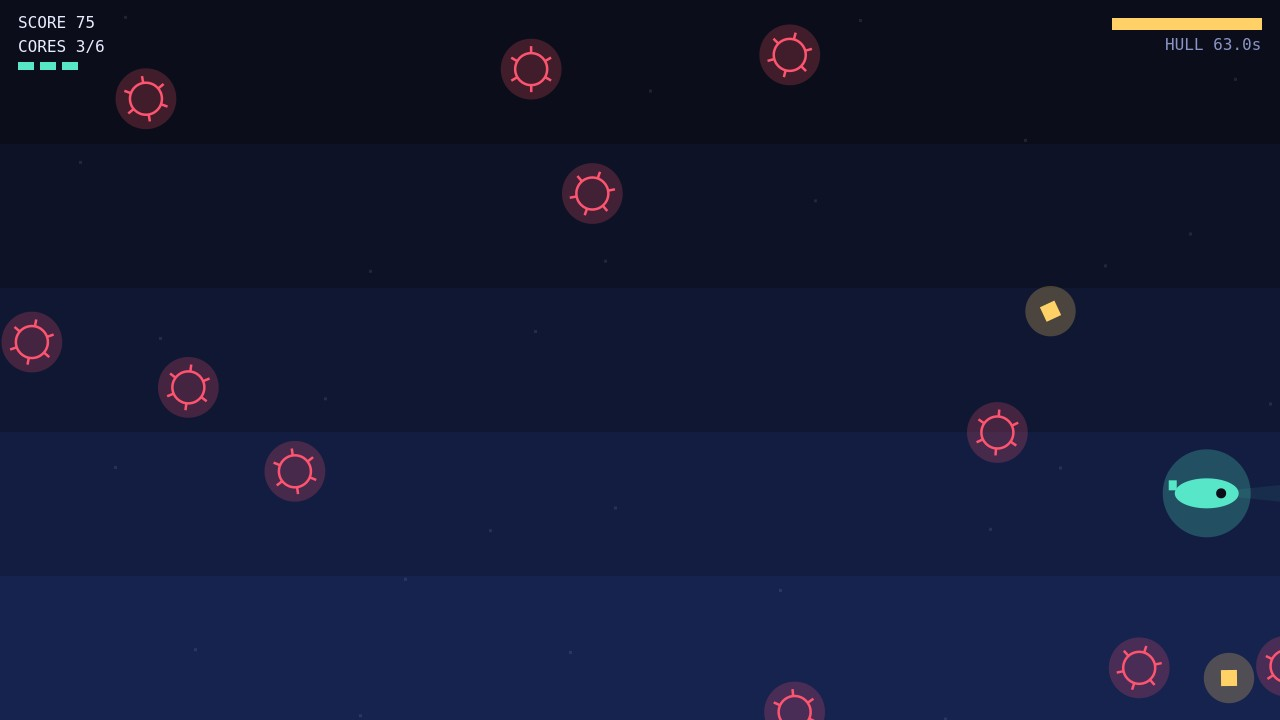
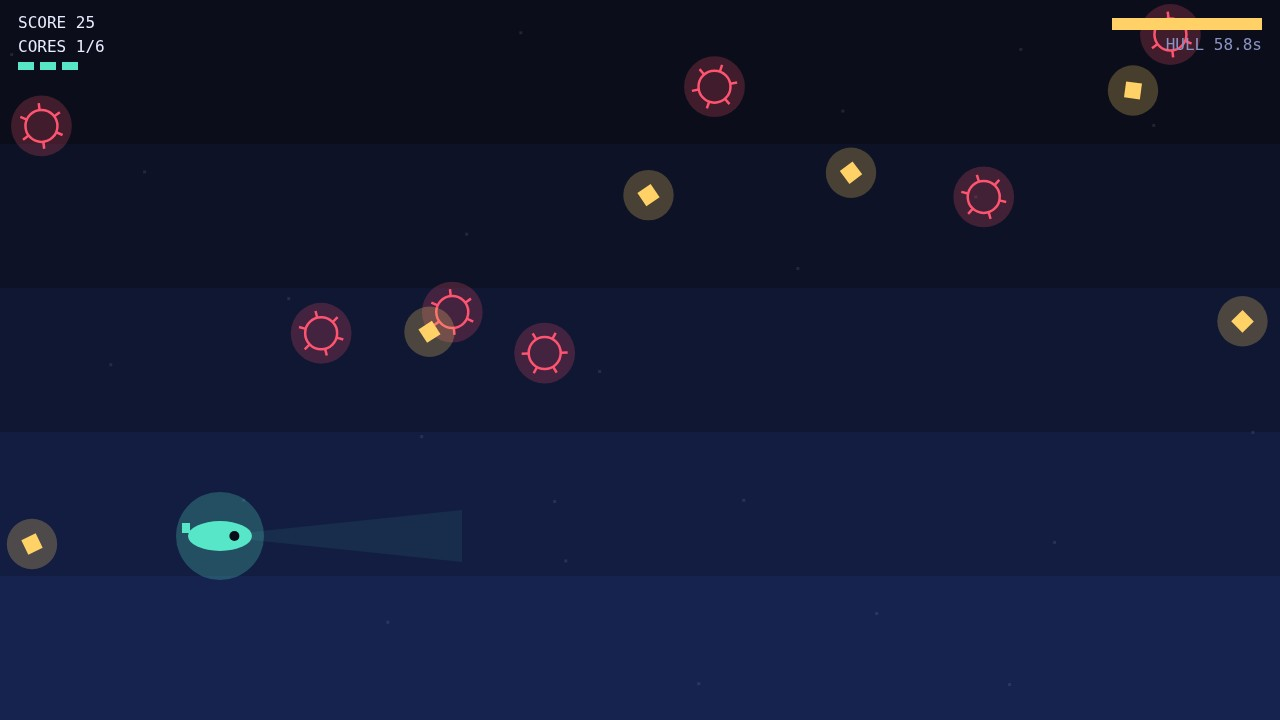
revised tuning + hull-patch on cores, new real-browser screenshots, rewritten entry program

diff --git a/main.ts b/main.ts
@@ -1,16 +1,12 @@
-// A working best-game-01 entry (Node 22, standard library only): the game is this directory's
-// game/ folder, plain static files a desktop browser loads offline (game/index.html and its ES
-// modules, no library and no network request), and the program hands it in. It copies game/ and
-// screenshots/ from beside this file to /output and writes /output/dossier.json, the summary the
-// judge reads, with the vendored make.fun library. A starting point, not a winner: Block Dodger, a
-// plain 2D canvas game where a paddle dodges falling blocks and catches coins, with a title screen,
-// score, lives and levels, game over and restart, flat colours and no sound. Build your own game
-// (any genre, any library you vendor under game/, or none), put your 3 or 4 PNG or JPEG screenshots
-// in screenshots/ (the first by name is the cover) and run it.
+// Neon Depths — entry program (Node 22, standard library only).
 //
-// Serve it locally with `node serve.ts`, then open http://localhost:8080.
-// Outside the grader's container, MAKEFUN_OUTPUT_DIR stands in for /output:
-//   mkdir -p out && MAKEFUN_OUTPUT_DIR=out node main.ts
+// The game itself is game/: plain static files that any static server can hand to a desktop
+// browser with no network request. This program's whole job is to hand it in: copy game/ and
+// screenshots/ beside /output, then write /output/dossier.json with the kit's own buildDossier,
+// which is the exact library the scorer rebuilds the dossier with.
+//
+//   outside the grader:  MAKEFUN_OUTPUT_DIR=out node main.ts
+//   to play it locally:  node serve.ts   (then open http://localhost:8080)
 
 import { cpSync, existsSync, mkdirSync, writeFileSync } from 'node:fs';
 import { join } from 'node:path';
@@ -18,24 +14,38 @@ import { fileURLToPath } from 'node:url';
 import { buildDossier } from './vendor/makefun-game.ts';
 
 const here = fileURLToPath(new URL('.', import.meta.url));
-const out = process.env.MAKEFUN_OUTPUT_DIR ?? '/output';
+const outDir = process.env.MAKEFUN_OUTPUT_DIR ?? '/output';
 
-mkdirSync(out, { recursive: true });
-cpSync(join(here, 'game'), join(out, 'game'), { recursive: true });
-mkdirSync(join(out, 'screenshots'), { recursive: true });
-if (existsSync(join(here, 'screenshots'))) cpSync(join(here, 'screenshots'), join(out, 'screenshots'), { recursive: true });
+// The scorer's five limits, as reference/gate.json states them.
+const GATE_LIMITS = {
+  text_max_bytes: 163840,
+  screenshots: { max: 4, max_bytes: 262144 },
+  game_max_files: 993,
+  game_max_bytes: 50331648,
+  game_path_max_bytes: 1000,
+};
 
-// The scorer's own caps (reference/gate.json): only text_max_bytes shapes the bytes; the others refuse an entry the
-// scorer would refuse (more than 4 screenshots or one over 256 KiB; more than 993 files in game/ or 48 MiB of game
-// files, in all, or a path under game/ over 1000 bytes: game/ counts beside /output's own 1000-entry cap, its
-// screenshots/ and dossier.json).
-writeFileSync(
-  join(out, 'dossier.json'),
-  buildDossier(out, {
-    text_max_bytes: 163840,
-    screenshots: { max: 4, max_bytes: 262144 },
-    game_max_files: 993,
-    game_max_bytes: 50331648,
-    game_path_max_bytes: 1000,
-  }),
-);
+function stage(source: string, destination: string) {
+  if (!existsSync(source)) return false;
+  cpSync(source, destination, { recursive: true });
+  return true;
+}
+
+mkdirSync(outDir, { recursive: true });
+
+const stagedGame = stage(join(here, 'game'), join(outDir, 'game'));
+if (!stagedGame) {
+  console.error('Neon Depths: game/ is missing beside main.ts, so there is nothing to hand in.');
+  process.exit(1);
+}
+
+mkdirSync(join(outDir, 'screenshots'), { recursive: true });
+const stagedShots = stage(join(here, 'screenshots'), join(outDir, 'screenshots'));
+if (!stagedShots) {
+  console.error('Neon Depths: screenshots/ is missing, so the judge would see no images of the game.');
+  process.exit(1);
+}
+
+writeFileSync(join(outDir, 'dossier.json'), buildDossier(outDir, GATE_LIMITS));
+
+console.log(`Neon Depths staged into ${outDir}: game/, screenshots/ and dossier.json.`);

diff --git a/game/index.html b/game/index.html
@@ -12,7 +12,7 @@
 </style>
 </head>
 <body>
-<canvas id="game" aria-label="Neon Depths: steer your submarine with arrow keys or WASD, dodge mines, collect energy cores, and reach the vault before the pressure hull gives out"></canvas>
+<canvas id="game" aria-label="Neon Depths: steer your submarine with arrow keys or WASD, dodge mines and anglerfish, collect energy cores, then hold inside the vault beam to crack it before the pressure hull gives out"></canvas>
 <p id="status" role="status" aria-live="polite"></p>
 <script type="module" src="./src/main.js"></script>
 </body>

diff --git a/game/src/world.js b/game/src/world.js
@@ -185,6 +185,8 @@ export function createWorld(random) {
           state.cores += 1;
           state.score += CORE.score;
           state.energy = Math.min(ENERGY_MAX, state.energy + CORE.energy);
+          // every third core also patches the hull, rewarding aggressive play
+          if (state.cores % 3 === 0 && state.hull < SUB.hullMax) state.hull += 1;
           events |= EVENT_CORE;
         } else if (sub.grace === 0) {
           item.active = false;

diff --git a/game/src/main.js b/game/src/main.js
@@ -49,6 +49,10 @@ let last = performance.now();
 let accumulator = 0;
 let clock = 0;
 
+// Exposed for the captured screenshots and for anyone poking at the game from the console:
+// read the live world to see how it is tuned, never to skip its rules.
+window.neonDepths = world;
+
 function frame(now) {
   const elapsed = Math.min(0.25, (now - last) / 1000);
   last = now;

diff --git a/game/src/config.js b/game/src/config.js
@@ -24,9 +24,9 @@ export const MINE = {
   speedMin: 120,
   speedPerDepth: 26,
   speedJitter: 70,
-  interval: 0.8,
+  interval: 0.85,
   intervalScale: 0.93,
-  minInterval: 0.16,
+  minInterval: 0.18,
 };
 
 export const CORE = {
